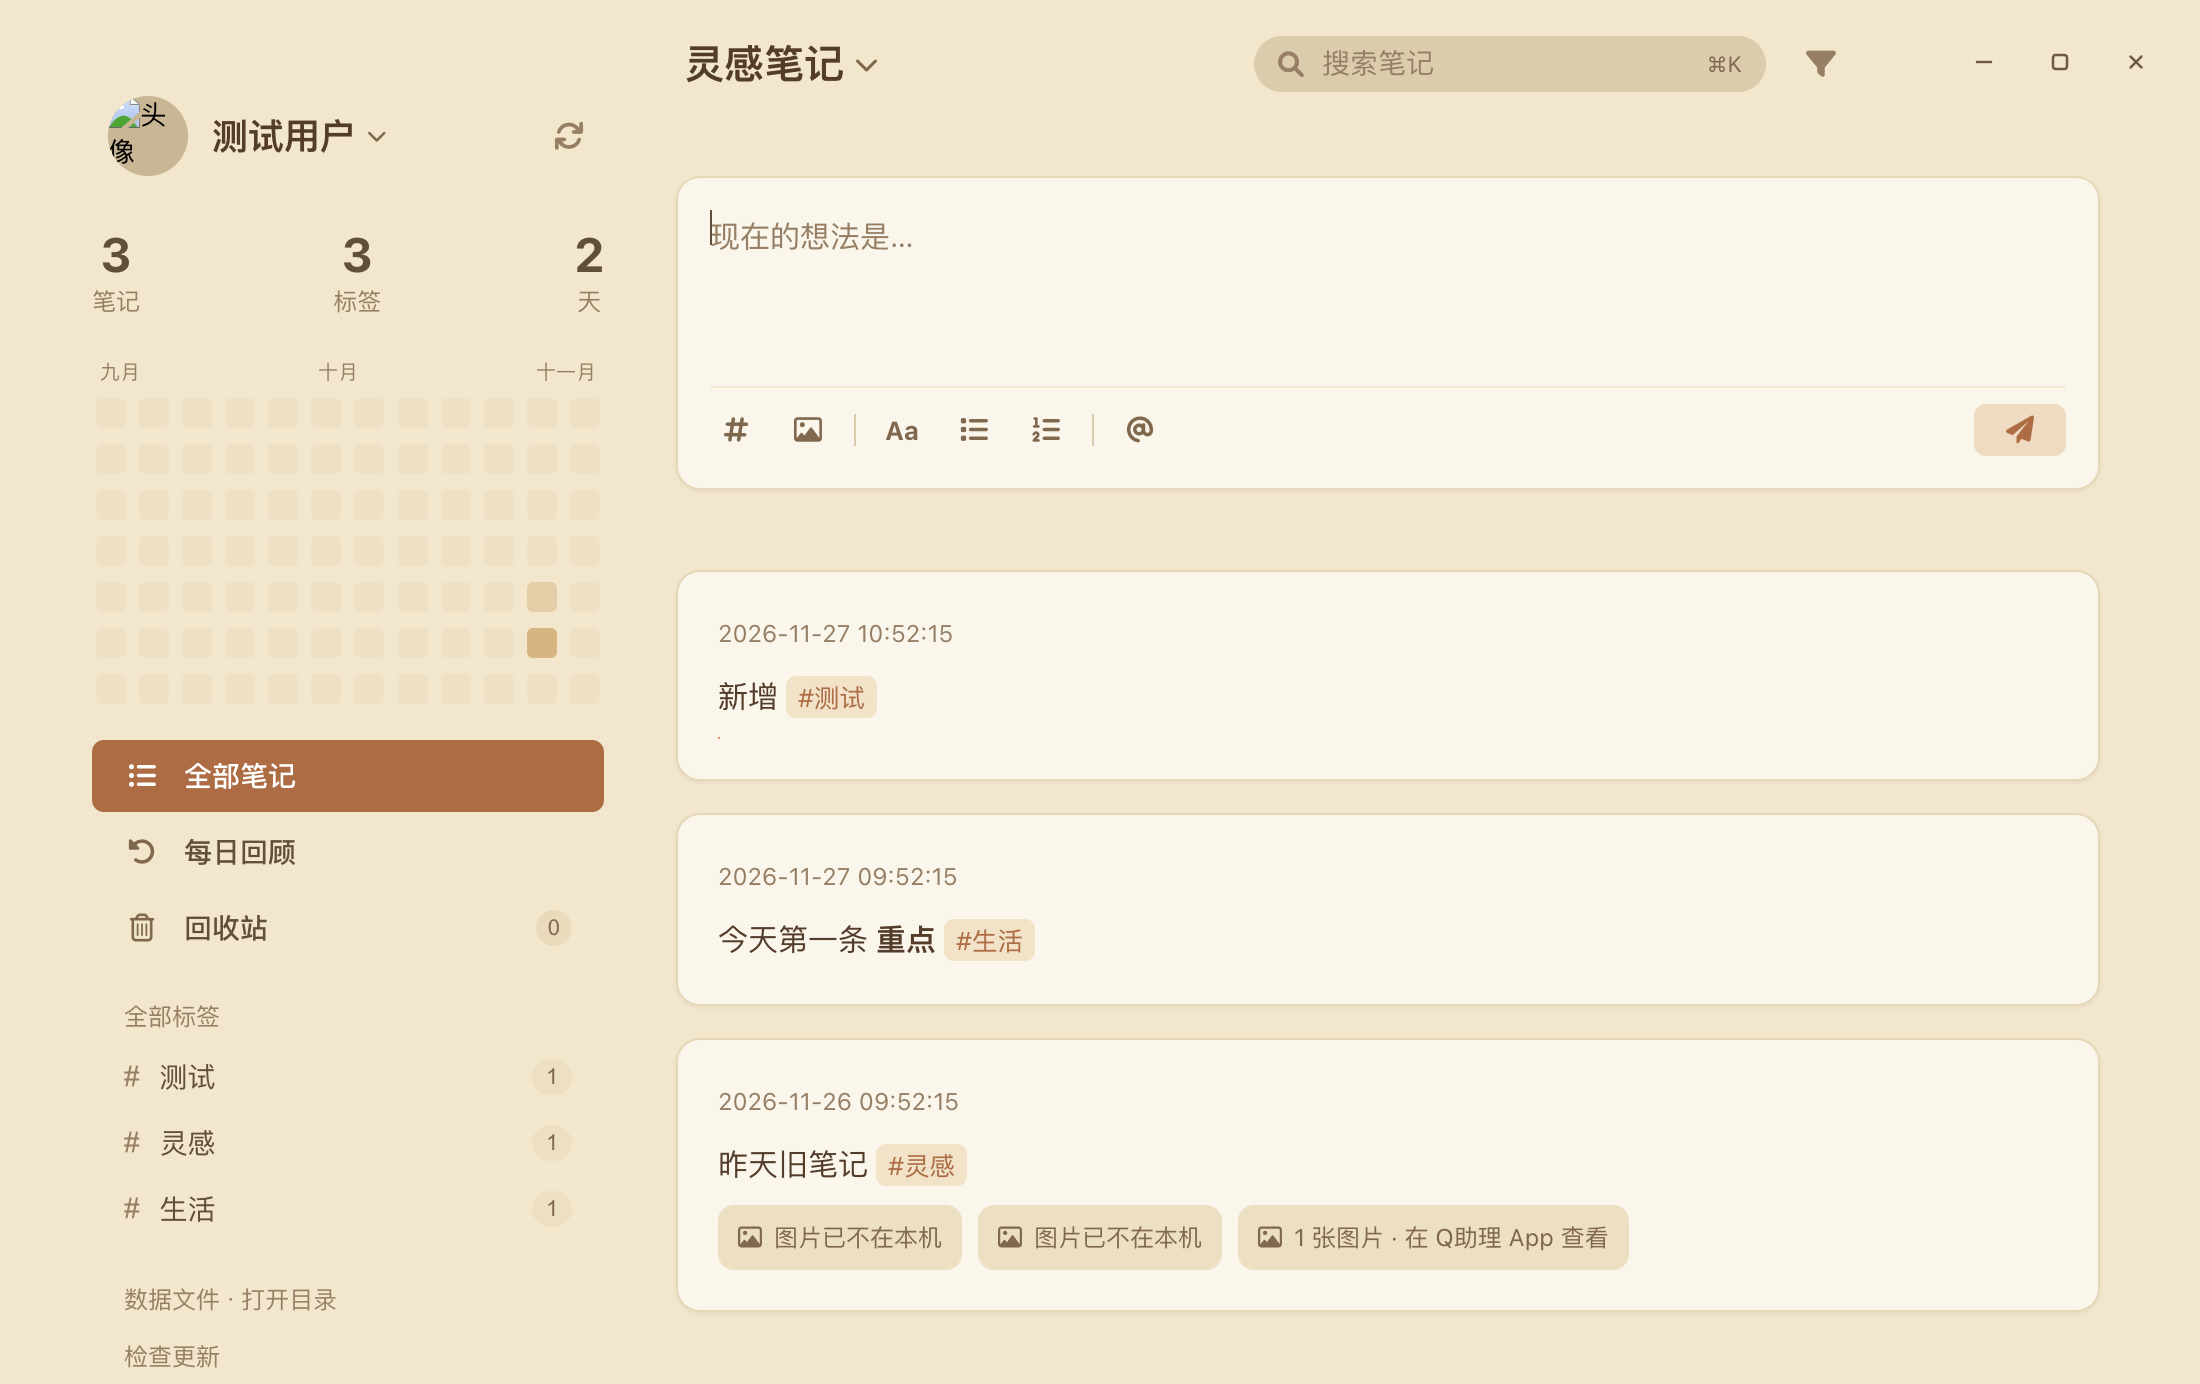
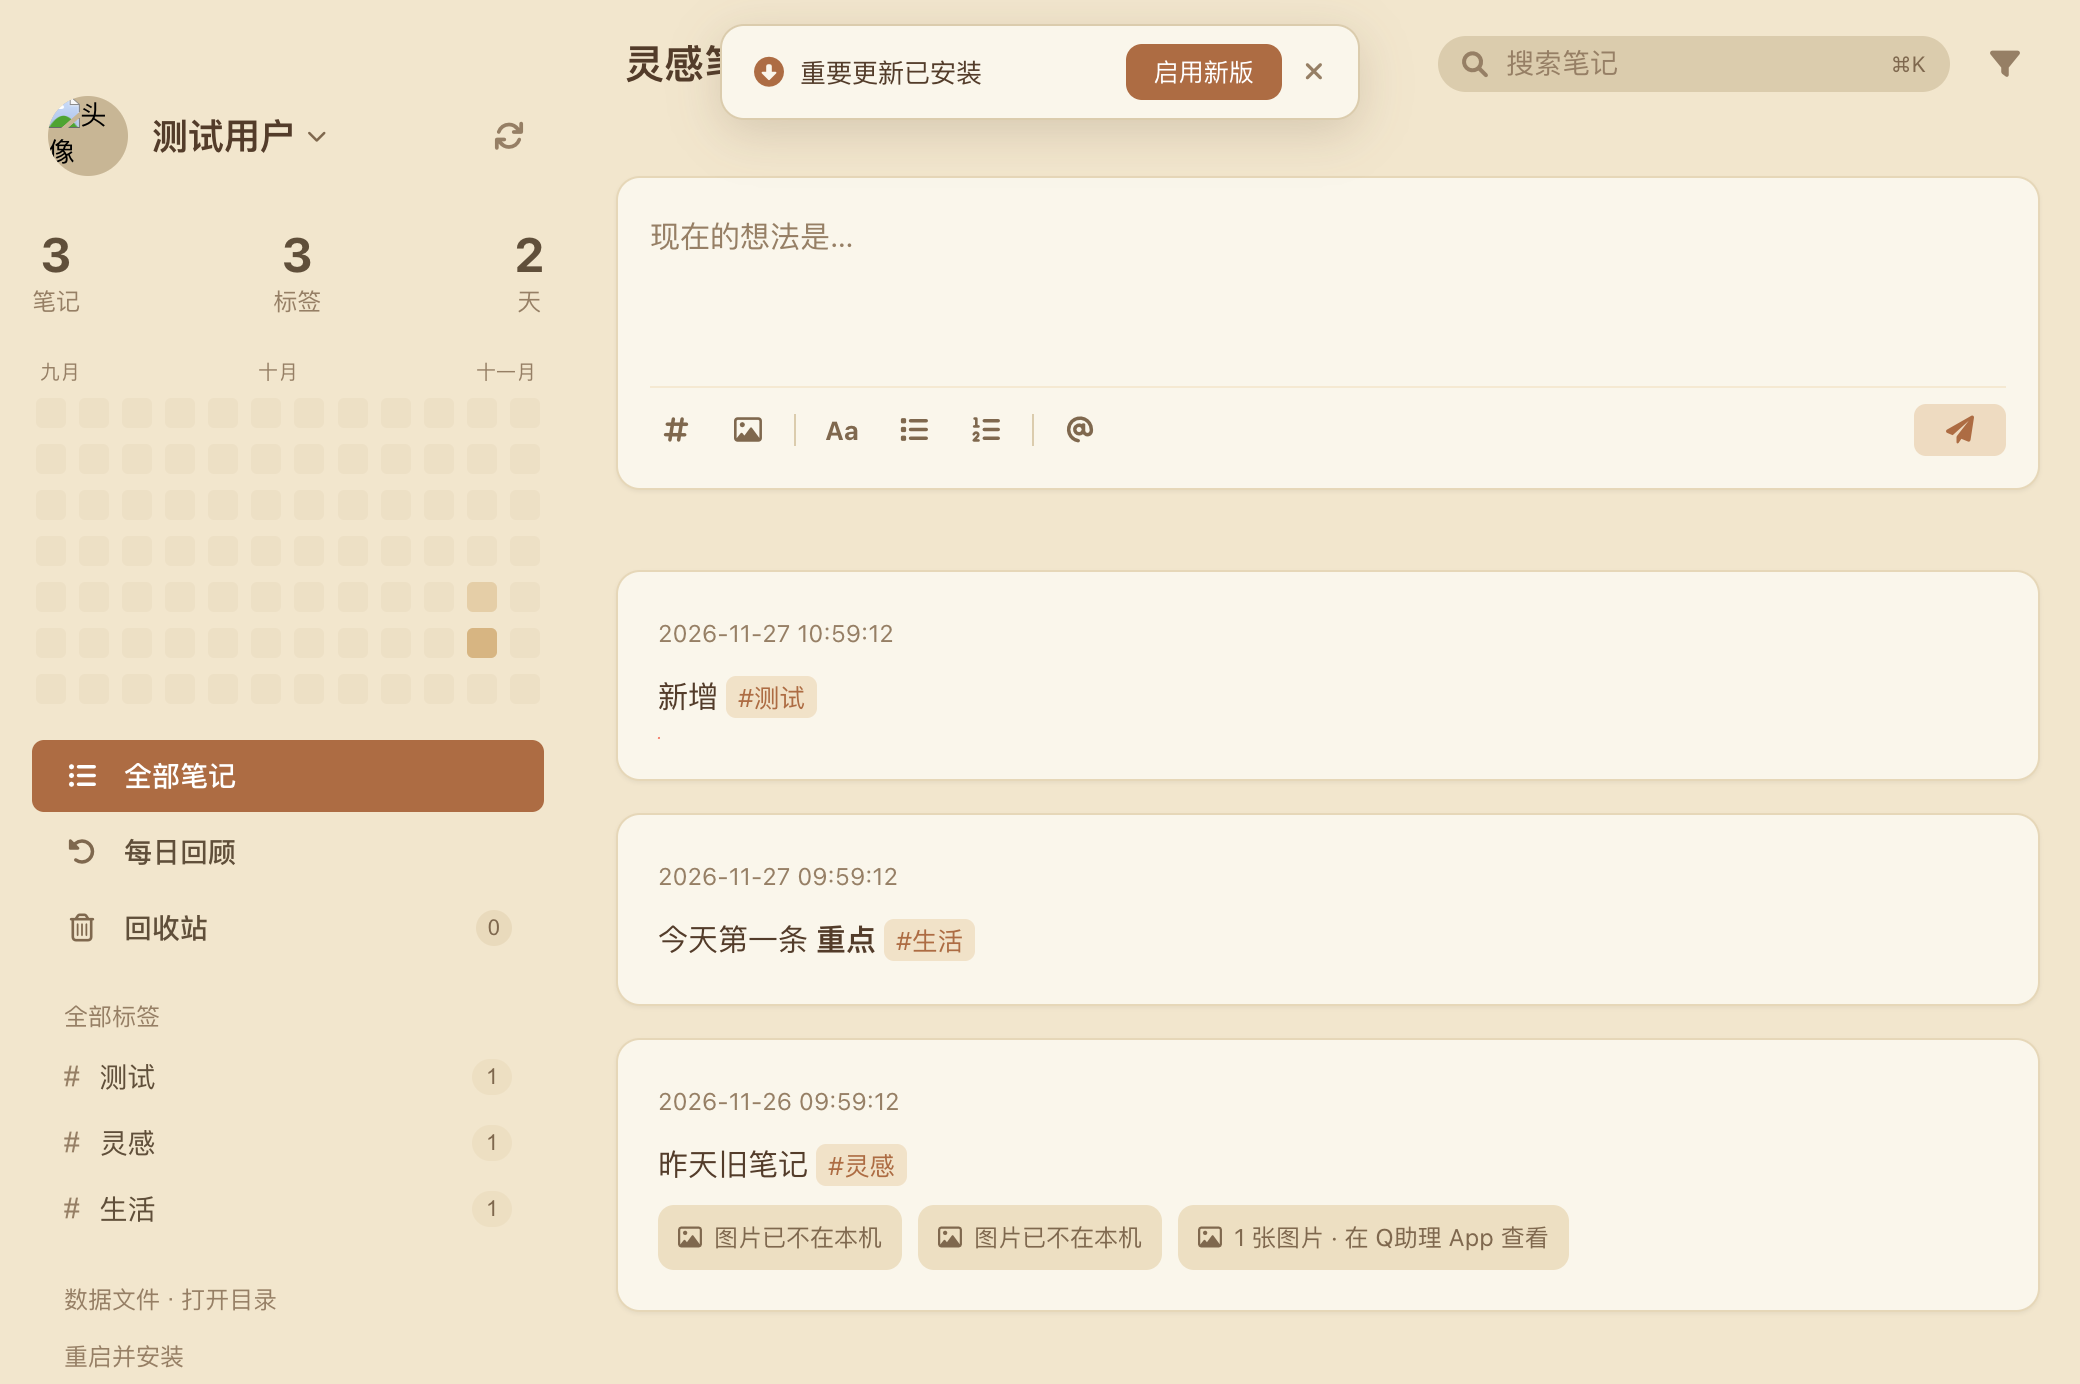
feat: 更新下载完成后常驻提示「启用新版」
- 下载完成不再隐藏顶部提示条，改为常驻显示，可手动 × 关闭
- 文案按平台：mac「重要更新已安装」/ win「重要更新已下载」
- 按钮统一「启用新版」；同版本关闭后不重弹，换版本仍弹
- 常驻期间 available/downloading/error 事件不覆盖提示
- smoke 新增 SMOKE_UPDATER_READY（c98-c104），默认与 force-win 模式各跑一次

diff --git a/renderer/app.js b/renderer/app.js
@@ -981,6 +981,18 @@
   let updateActionMode = null;        // 'download' | 'restart'
   let checkUpdateState = 'idle';      // 侧边栏「检查更新」链接状态：'idle' | 'downloading' | 'downloaded'
   let downloadDismissed = false;      // 用户点 x 关闭下载进度提示后，不再刷新进度文案
+  let updateReadyVersion = null;      // 已下载完成、等待启用新版的版本（非空即「常驻提示」状态）
+
+  // 下载完成后的提示文案按平台区分（用户 2026-11-27 明确要求）：
+  // macOS 安装包已落到替换位置（quitAndInstall 直接换新版）→「重要更新已安装」；
+  // Windows 安装包只落在待安装目录，尚未替换 →「重要更新已下载」。
+  function isWindowsPlatform() {
+    return !!(window.ideaNote && window.ideaNote.platform === 'win32');
+  }
+
+  function readyNoticeText() {
+    return isWindowsPlatform() ? '重要更新已下载' : '重要更新已安装';
+  }
 
   function showUpdateBar(text, mode) {
     el.updateBar.classList.remove('hidden');
@@ -988,7 +1000,7 @@
     if (mode) {
       updateActionMode = mode;
       el.updateAction.classList.remove('hidden');
-      el.updateAction.textContent = (mode === 'restart') ? '重启并安装' : '下载更新';
+      el.updateAction.textContent = (mode === 'restart') ? '启用新版' : '下载更新';
     } else {
       updateActionMode = null;
       el.updateAction.classList.add('hidden');
@@ -1007,12 +1019,14 @@
     if (ev === 'checking') {
       // 检查过程不再弹 toast，结果由下方事件与「检查更新」链接状态反馈
     } else if (ev === 'available') {
+      if (updateReadyVersion) return;  // 已下载待启用：常驻提示不被后续检查覆盖
       if (payload.version && payload.version === updateDismissedVersion) return;
       if (payload.version && payload.version === updaterInfo.currentVersion) return; // 防御：版本未变
       updateShownVersion = payload.version;
       showUpdateBar('发现新版本 v' + payload.version,
         updaterInfo.autoDownload ? null : 'download');
     } else if (ev === 'downloading') {
+      if (updateReadyVersion) return;  // 已下载待启用：不再隐藏常驻提示
       // 下载进度改由侧边栏「检查更新」链接展示，隐藏顶部提示条避免重复
       hideUpdateBar();
       checkUpdateState = 'downloading';
@@ -1021,15 +1035,24 @@
         el.checkUpdateX.classList.remove('hidden');
       }
     } else if (ev === 'downloaded') {
-      hideUpdateBar();
+      // 下载完成 → 顶部常驻提示「重要更新已安装/已下载 + 启用新版」（用户 2026-11-27 要求：
+      // 一直显示，直到用户点「启用新版」或手动关闭 ×）。侧边栏同步为可点击的重启入口。
       updateShownVersion = payload.version;
+      updateReadyVersion = payload.version || updateShownVersion;
       downloadDismissed = false;
       checkUpdateState = 'downloaded';
       el.checkUpdateLabel.textContent = '重启并安装';
       el.checkUpdateX.classList.add('hidden');
+      if (updateReadyVersion && updateReadyVersion === updateDismissedVersion) {
+        hideUpdateBar();   // 用户对这个版本按过 ×，不再重复弹
+      } else {
+        showUpdateBar(readyNoticeText(), 'restart');
+      }
     } else if (ev === 'not-available') {
+      if (updateReadyVersion) return;
       if (payload.manual) showToast('已是最新版本');
     } else if (ev === 'error') {
+      if (updateReadyVersion) return;  // 已就绪后出错不回退提示（避免提示闪烁消失）
       // 静默检查（启动 10s 后 / 每 4 小时）失败不弹 toast：用户没主动操作，不该被打扰，
       // 也不该看到升级组件那一串 URL/HTTP/堆栈。手动检查/下载的失败走 IPC 返回值提示。
       hideUpdateBar();

diff --git a/smoke-test.js b/smoke-test.js
@@ -799,6 +799,48 @@ const QR_SAMPLE = [
     })()`);
     console.log('SMOKE_UPDATER_SILENT=' + JSON.stringify(silentErrorToast));
 
+    // 下载完成 → 顶部常驻提示「重要更新已安装(win: 已下载)」+ 按钮「启用新版」（用户 2026-11-27 要求：
+    // 一直显示、可手动关闭）。verifies：后续 available/downloading/error 事件不得覆盖或隐藏它；
+    // 用户按 × 后同版本不再重弹，换新版本仍会弹。
+    const expectReadyText = (process.env.IDEA_NOTE_FORCE_WIN_CONTROLS === '1' || process.platform === 'win32')
+      ? '重要更新已下载' : '重要更新已安装';
+    const readBar = () => win.webContents.executeJavaScript(`(() => {
+      const bar = document.getElementById('update-bar');
+      const btn = document.getElementById('update-action');
+      const txt = document.getElementById('update-text');
+      return {
+        visible: !!bar && !bar.classList.contains('hidden'),
+        text: txt ? txt.textContent : '',
+        actionText: btn ? btn.textContent : '',
+        actionVisible: !!btn && !btn.classList.contains('hidden'),
+        iconHidden: !btn || btn.classList.contains('hidden')
+      };
+    })()`);
+    win.webContents.send('updater:event', { event: 'downloaded', version: '9.9.9' });
+    await new Promise((r) => setTimeout(r, 300));
+    const readyBar1 = await readBar();
+    // 干扰事件：后续检查/进度/错误都不能把常驻提示顶掉
+    win.webContents.send('updater:event', { event: 'available', version: '9.9.9' });
+    win.webContents.send('updater:event', { event: 'downloading', percent: 40 });
+    win.webContents.send('updater:event', { event: 'error', message: '某错误', manual: false });
+    await new Promise((r) => setTimeout(r, 300));
+    const readyBar2 = await readBar();
+    // 手动关闭：点 × 后隐藏
+    await win.webContents.executeJavaScript("document.getElementById('update-close').click(); true");
+    await new Promise((r) => setTimeout(r, 200));
+    const readyBarClosed = await readBar();
+    // 同版本不再重弹
+    win.webContents.send('updater:event', { event: 'downloaded', version: '9.9.9' });
+    await new Promise((r) => setTimeout(r, 200));
+    const readyBarRepeat = await readBar();
+    // 新版本仍会弹（也用于截图呈现）
+    win.webContents.send('updater:event', { event: 'downloaded', version: '9.9.10' });
+    await new Promise((r) => setTimeout(r, 200));
+    const readyBarNext = await readBar();
+    console.log('SMOKE_UPDATER_READY=' + JSON.stringify({
+      expectReadyText, readyBar1, readyBar2, readyBarClosed, readyBarRepeat, readyBarNext
+    }));
+
     const image = await win.webContents.capturePage();
     fs.writeFileSync(path.join(__dirname, 'screenshot.png'), image.toPNG());
 
@@ -943,6 +985,14 @@ const QR_SAMPLE = [
       c96: // 静默更新检查失败不弹 toast（2026-11-26 用户报 Windows 冷启动「更新失败 + 长错误码」）
       silentErrorToast.visible === false,
       c97: !atResult.atErr,
+      // 下载完成后的常驻「启用新版」提示（2026-11-27 用户要求）
+      c98: readyBar1.visible === true,
+      c99: readyBar1.text === expectReadyText,
+      c100: readyBar1.actionText === '启用新版' && readyBar1.actionVisible === true,
+      c101: readyBar2.visible === true && readyBar2.text === expectReadyText, // 后续事件不覆盖
+      c102: readyBarClosed.visible === false,                                 // 可手动关闭
+      c103: readyBarRepeat.visible === false,                                 // 同版本不重弹
+      c104: readyBarNext.visible === true && readyBarNext.text === expectReadyText,
     };
     const failed = Object.keys(checks).filter((k) => !checks[k]);
     if (failed.length) console.log('SMOKE_FAILED=' + JSON.stringify(failed));
